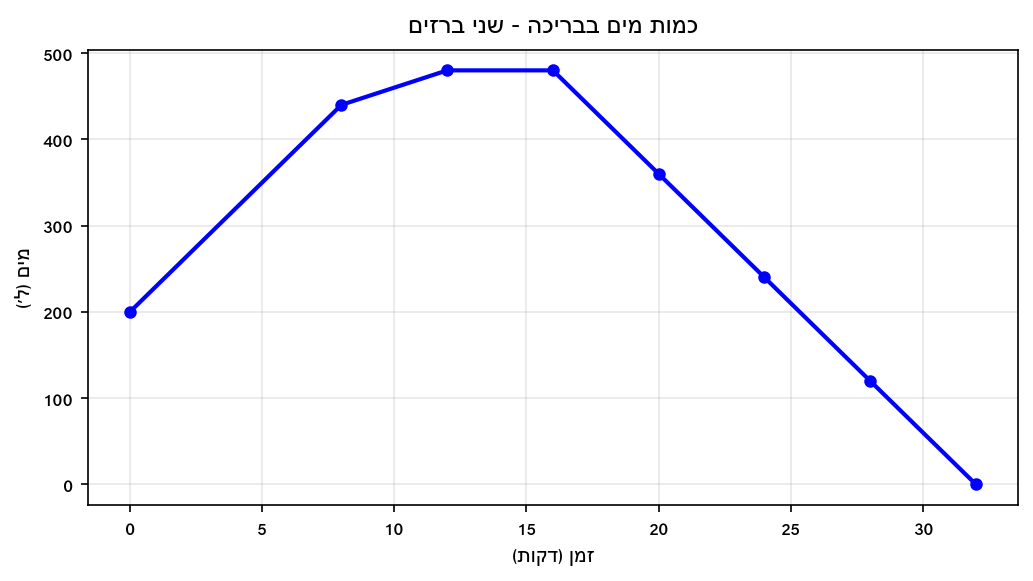
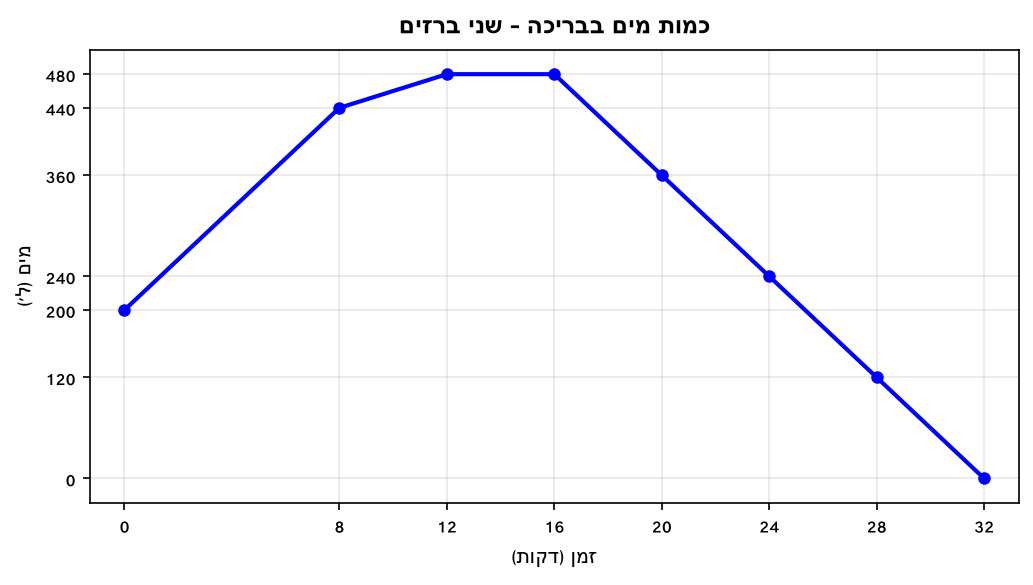
fix 3.2

diff --git a/generate_graphs.py b/generate_graphs.py
@@ -176,7 +176,7 @@ ex(S,5,'מילוי וריקון בריכת שחייה','זמן (דקות)','מי
 ex(S,6,'הכנסות חנות לפי חודש','חודש','הכנסות (₪)',[1,3,6,9,12],[18000,28000,35000,15000,30000])
 ex(S,7,'גובה שתיל לפי שבועות','שבוע','גובה (ס"מ)',[0,2,4,6,8,10,12],[3,8,15,24,30,30,30])
 ex(S,8,'מהירות רכב לפי שעה','שעה','מהירות (קמ"ש)',[0,0.5,1,1.5,2,2.5,3,3.5,4],[0,60,90,70,70,0,80,80,0],time_x=False)
-ex(S,9,'טמפרטורת חולה - יממה','שעות מתחילה','טמפ\' (°C)',[0,2,4,6,8,12,16,20,24,28,32],[37.2,38.5,39.6,40.3,39.8,38.0,37.5,38.6,40.5,39.1,37.4])
+ex(S,9,'טמפרטורת חולה - יממה','שעות מתחילה','טמפ\' (°C)',[0,2,4,6,8,12,16,20,24],[37.2,38.5,39.6,40.3,39.8,38.0,37.5,38.6,40.5])
 ex(S,10,'צריכת חשמל בבית - 24ש','שעה','קוט"ש',[0,2,4,6,8,12,14,16,18,20,22,24],[1,0.5,0.5,2,4,3,5,6,8,7,3,1],time_x=True)
 ex(S,11,'מרחק רץ לפי שעות','שעה','מרחק (ק"מ)',[0,1,2,3,4,5,6,7,8],[0,10,18,24,24,18,18,24,30])
 ex(S,12,'רווחים והפסדים חברה','חודש','רווח/הפסד (₪ אלפים)',[1,2,3,4,5,6,7,8,9,10,11,12],[-8,-5,-1,3,7,7,4,-2,-6,-3,2,8])

diff --git a/3 - קריאת והבנת מידע מגרפים מסיפורי מעשה/2_קריאת_נקודות_מפתח.md b/3 - קריאת והבנת מידע מגרפים מסיפורי מעשה/2_קריאת_נקודות_מפתח.md
@@ -248,7 +248,7 @@
 
 ג. מתי ומאיזה כמות החלה הבריכה להתרוקן?
 
-ד. האם ניתן לומר בוודאות שמשעה 12 עד 16 הברז הממלא והמרוקן פעלו בקצב שווה? נמקו.
+ד. האם ניתן לומר בוודאות שמדקה 12 עד 16 הברז הממלא והמרוקן פעלו בקצב שווה? נמקו.
 
 ---
 
@@ -327,8 +327,8 @@
 
 9.
 א. 37.2°C.
-ב. 40.5°C ב-8:00 של היום השני (24 שעות לאחר תחילת המדידה).
-ג. 37.2°C — בתחילת המדידה (8:00 של היום הראשון).
+ב. 40.5°C בשעה 24 מתחילת המדידה.
+ג. 37.2°C — בתחילת המדידה (שעה 0).
 
 10.
 א. 1 קוט"ש.
@@ -338,7 +338,7 @@
 11.
 א. 0 ק"מ.
 ב. 30 ק"מ (שעה 8).
-ג. בין שעה 4 לשעה 6 (המרחק ירד מ-24 ל-18 ק"מ).
+ג. בין שעה 4 לשעה 5 (המרחק ירד מ-24 ל-18 ק"מ).
 
 12.
 א. הפסד של 8,000 ₪.
